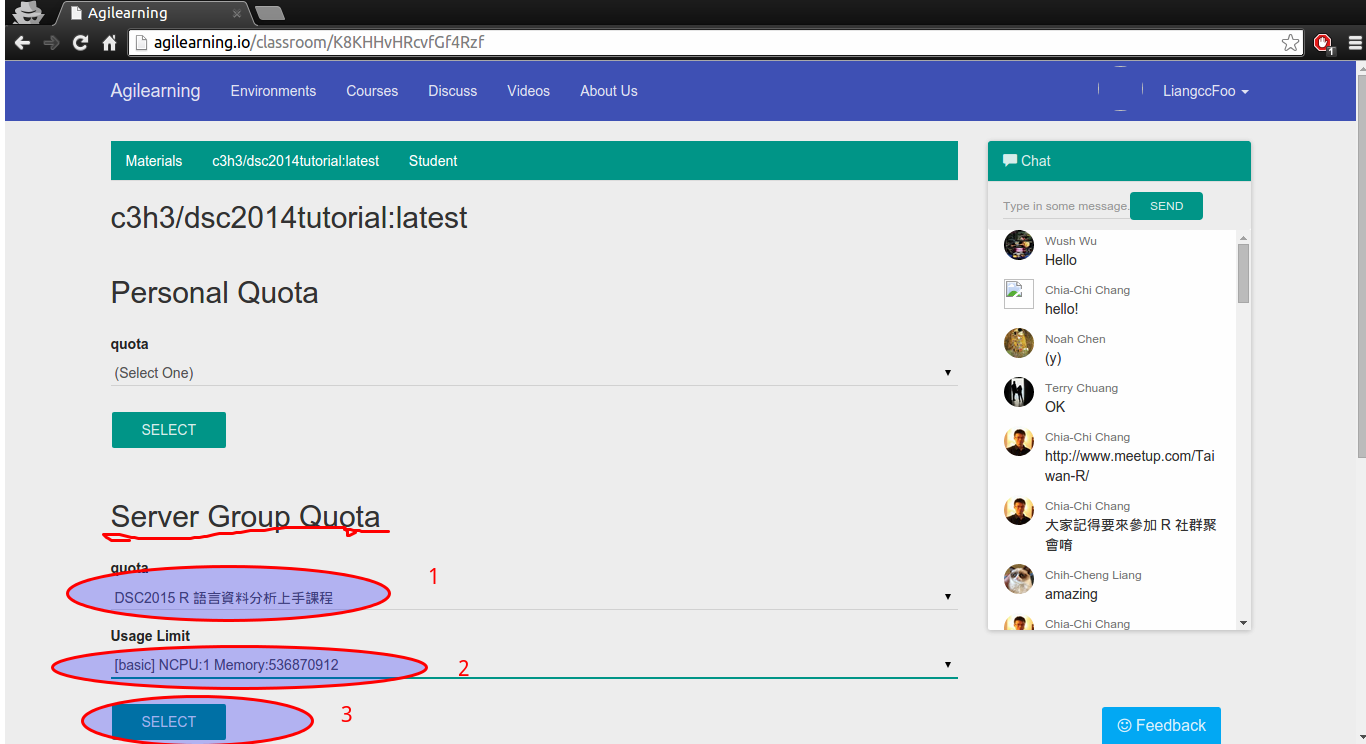
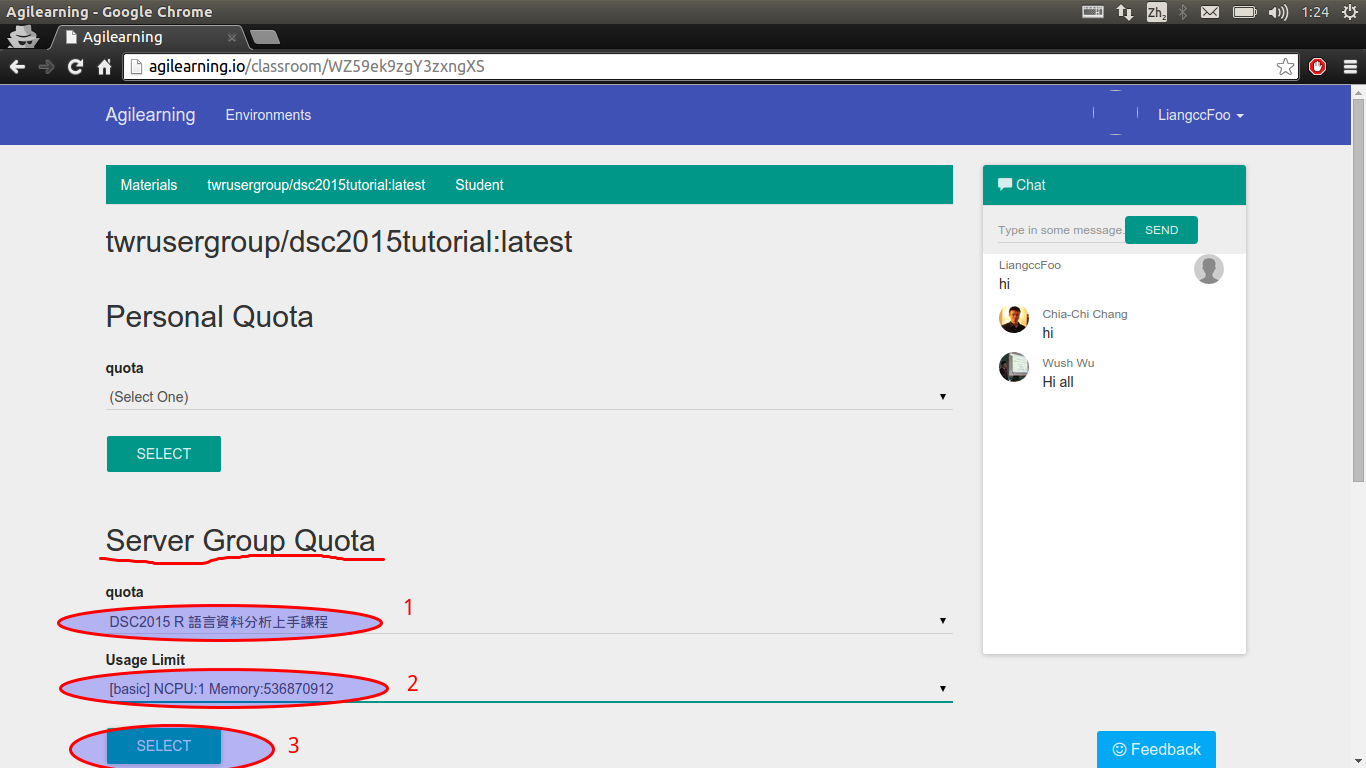
change instruction for new course

diff --git a/README.md b/README.md
@@ -1,14 +1,15 @@
+## 平台網址：[agilearning.io](http://agilearning.io)
+
 # 平台使用教學
 
 
 
-1. 在信箱中取得平台邀請碼。 ![step1](/invitation_url.png)
+1. 在信箱中取得平台邀請連結，開啟瀏覽器進入連結。 ![step1](/invitation_url.png)
 1. 可選擇使用Facebook或Meetup登入。登入後點選Agilearning進入首頁。  ![](/become_agilearner.png)
-1. 進入首頁後，看到一系列課程。請往下捲。 ![](/home_page.png)
-1. 選擇R Basic課程。![](/choose_rbasic.png)
+1. 進入首頁後，點選台灣資料科學愛好者年會圖案。 ![](/home_page.png)
 1. 點選join classroom，再點 Go to classroom。![](/join_class.png)
-1. 點選c3h3/dsc2014tutorial:latest。![](/click_nav_tab.png)
+1. 點選twrusergroup/dsc2015tutorial:latest。![](/click_nav_tab.png)
 1. 在Server Group Quota選擇 「DSC 2015 R 語言資料分析上手課程」與[basic ...]，點選Select。![](/choose_server_quota.png)
 1. 稍候片刻，應有灰色畫面跳出，選擇Reconnect。![](/reconnect.png)
 1. 輸入使用者名稱密碼，按Sign in。![](/enter_pwd.png)
-1. 在指令列輸入`source("http://taiwanrusergroup.github.io/R/init.R")`並執行。套件安裝完成即可使用![](/install_package.png)
+1.恭喜您，成為一位快樂的R語言使用者！可以鍵入你的第一個指令：`library(DSC2015R)` ![](happy_r_user.png)
